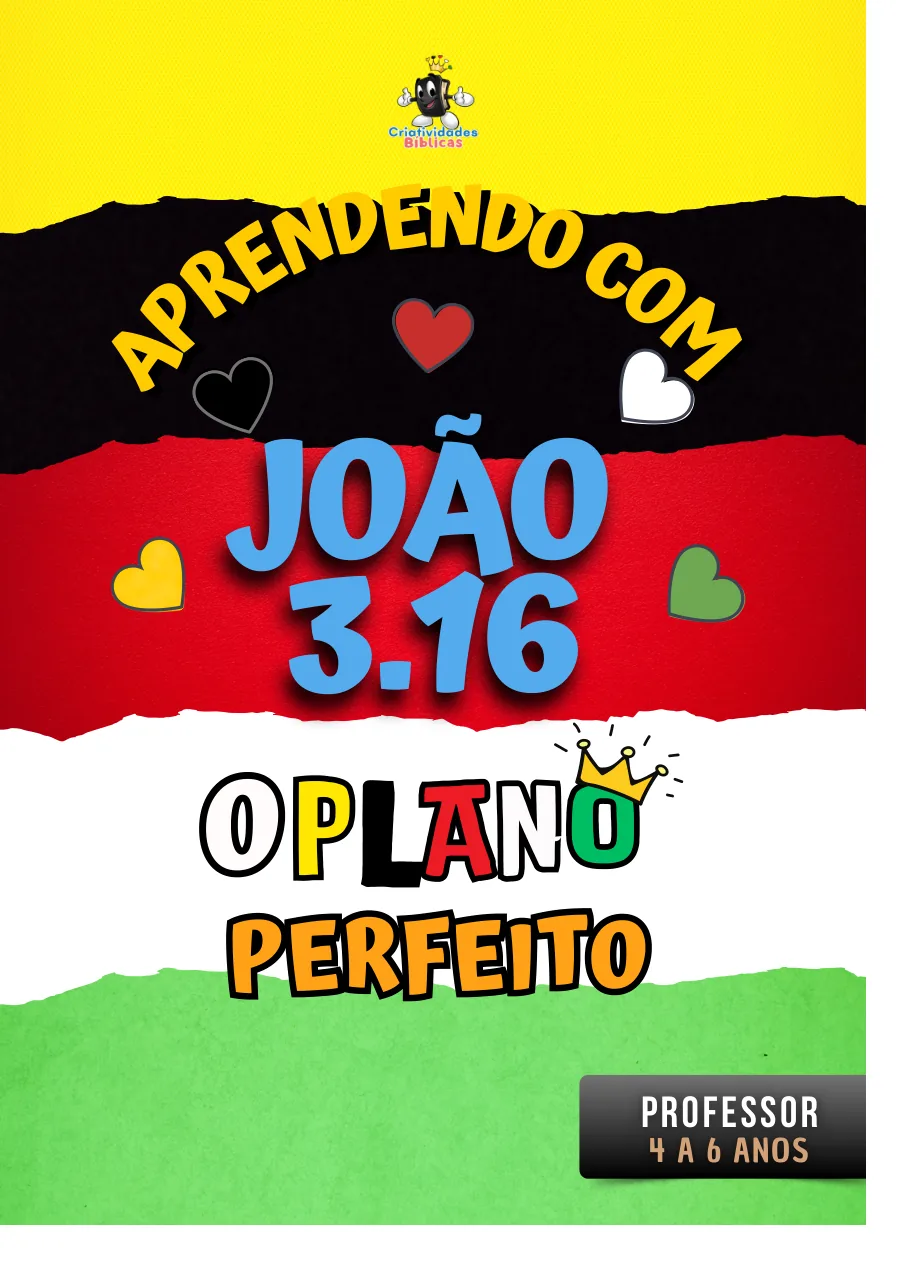
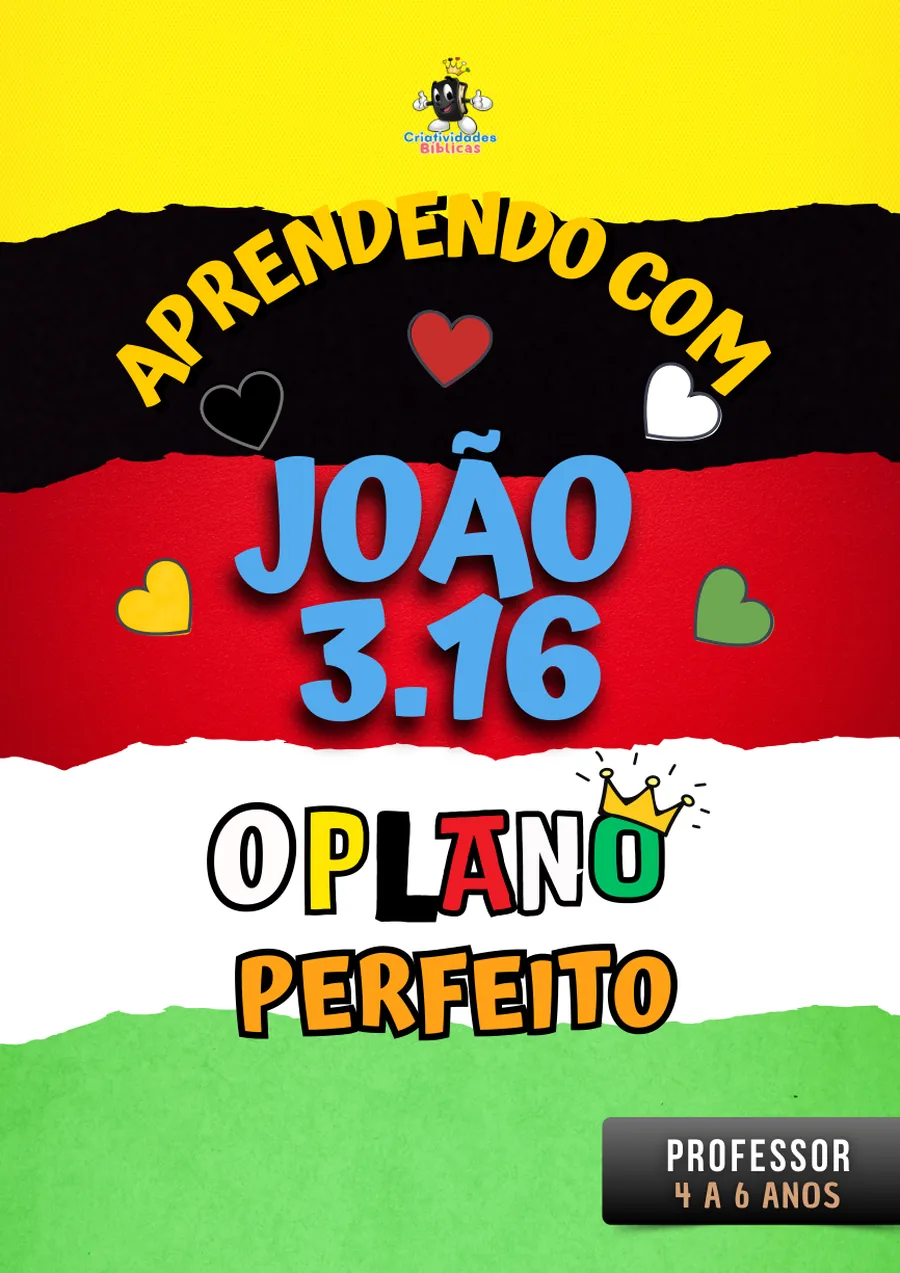
Black Biblinho: storytelling (preco por ultimo), capas recentes no topo, Planner 2027 em destaque
- A conta do valor sai do topo e vai pro fim, dentro de "Por que isso so existe
  na Black Friday", logo antes da oferta; o botao do topo rola pra "O que entra".
- Hero com as capas mais recentes: Daniel, As Cores da Salvacao e Elias.
- Planner Ministerio Infantil 2027 (Chamadas a Cuidar) ganha cartao proprio como
  bonus em producao, com a capa real e o ano trocado pra 2027.
- Capa do Plano Perfeito 2025 aparada (o PDF tinha margem branca a direita e embaixo).
- Emocoes: mais de 1.000 familias e professoras.

diff --git a/app/black-biblinho/page.js b/app/black-biblinho/page.js
@@ -16,7 +16,7 @@
 import Image from "next/image";
 import Link from "next/link";
 import { Lilita_One } from "next/font/google";
-import { ArrowDown, CheckCircle, Clock, LockSimpleOpen, ShieldCheck, Sparkle } from "@phosphor-icons/react/dist/ssr";
+import { CheckCircle, Clock, LockSimpleOpen, ShieldCheck, Sparkle } from "@phosphor-icons/react/dist/ssr";
 import Nav from "@/components/Nav";
 import Footer from "@/components/Footer";
 import FaqItem from "@/components/FaqItem";
@@ -81,14 +81,15 @@ function Selo({ children, className = "" }) {
 }
 
 // Chamada principal, muda com a fase. Na venda leva pra Kiwify; fechada, pro Plano Anual de sempre.
-// No hero (rolar=true) o botão não leva pro checkout: desce pro bloco seguinte, sem preço
-// (decisão da Thali em 20/11: a pessoa precisa ver tudo que recebe antes de chegar no pagamento).
+// No hero (rolar=true) o botão não leva pro checkout: desce pra seção do que entra, sem preço
+// (decisão da Thali em 20/11: a pessoa precisa ver tudo que recebe antes de chegar no pagamento;
+// 21/11: a conta do valor foi pro fim da página, depois de todo o material).
 function Chamada({ fase, className = "", rolar = false }) {
   if (fase === "venda" && rolar) {
     return (
       <div className={className}>
-        <Botao href="#valor" externo={false}>Quero o Acesso Total</Botao>
-        <p className="mt-3 text-[14px] font-semibold text-current/70">Veja tudo que entra e quanto custa. Leva 1 minuto.</p>
+        <Botao href="#entra" externo={false}>Quero o Acesso Total</Botao>
+        <p className="mt-3 text-[14px] font-semibold text-current/70">Veja tudo que entra. Leva 1 minuto.</p>
       </div>
     );
   }
@@ -126,7 +127,8 @@ function FaixaTopo({ fase }) {
 export default async function BlackBiblinhoPage({ searchParams }) {
   const sp = await searchParams;
   const fase = faseDaUrl(sp);
-  const capasHero = [RODA_2026[2], RODA_2026[0], RODA_2026[9]]; // Zaqueu, Semeador, Daniel (2026)
+  // 21/11 (Thali): no topo, as capas mais recentes e mais coloridas: Daniel (out), As Cores da Salvação (nov, no centro) e Elias (set).
+  const capasHero = [RODA_2026[9], RODA_2026[10], RODA_2026[8]];
 
   return (
     <div className={`pa bb ${lilita.variable}`}>
@@ -161,9 +163,6 @@ export default async function BlackBiblinhoPage({ searchParams }) {
                 {fase === "venda" ? <ContadorBlocos escuro className="mt-3" /> : null}
               </div>
               <Chamada fase={fase} rolar className="mt-8 text-white" />
-              <a href="#entra" className="mt-6 inline-flex items-center gap-2 text-[15px] font-bold text-white/80 underline-offset-4 hover:text-pa-sol hover:underline">
-                Ver tudo que entra <ArrowDown size={18} weight="bold" />
-              </a>
             </div>
             <div className="relative mx-auto aspect-[5/4] w-full max-w-lg xl:max-w-none">
               <Image src={capasHero[0].src} alt="" width={900} height={1273} className="pa-flutua absolute left-[2%] top-[10%] hidden h-[72%] w-auto rounded-[12px] border-4 border-white shadow-[0_28px_44px_-18px_rgba(0,0,0,0.6)] sm:block" style={{ "--r": "-8deg", "--dur": "7.5s", "--delay": "0.4s" }} />
@@ -173,47 +172,9 @@ export default async function BlackBiblinhoPage({ searchParams }) {
           </div>
         </section>
 
-        {/* 2. A conta do valor: o que custa separado e por quanto sai na Black Friday */}
-        <section id="valor" className="scroll-mt-20 bg-white">
-          <div className="mx-auto max-w-3xl px-5 py-16 md:px-8 md:py-24">
-            <H2>Faça a conta antes de decidir.</H2>
-            <Texto className="mt-4">Tudo que entra no Black Biblinho já existe e é vendido separado, pelos preços de hoje. Somando, dá isto:</Texto>
-            <ul className="mt-8 divide-y divide-pa-tinta/10 rounded-[1.5rem] bg-pa-ceu-claro px-6 py-2 md:px-8">
-              {VALOR.map((v) => (
-                <li key={v.item} className="flex items-baseline justify-between gap-4 py-4">
-                  <span>
-                    <span className="block text-[16px] font-bold text-pa-tinta md:text-[17px]">{v.item}</span>
-                    <span className="block text-[13px] font-semibold text-pa-tinta/60">{v.detalhe}</span>
-                  </span>
-                  <span className="shrink-0 font-display text-[1.25rem] text-pa-tinta/80 tabular-nums">{moeda(v.preco)}</span>
-                </li>
-              ))}
-              <li className="flex items-baseline justify-between gap-4 py-4">
-                <span className="text-[16px] font-extrabold text-pa-tinta md:text-[17px]">Separado, tudo isso custa</span>
-                <span className="shrink-0 font-display text-[1.6rem] text-pa-tinta tabular-nums line-through decoration-pa-laranja decoration-4">{moeda(Math.round(VALOR_TOTAL))}</span>
-              </li>
-            </ul>
-            <div className="mt-8 rounded-[1.5rem] bg-bb-noite px-6 py-7 text-white md:px-8">
-              <p className="text-[12px] font-extrabold uppercase tracking-[0.12em] text-white/60">Na Black Friday, até {OFERTA.fimCurto}</p>
-              <p className="mt-2 flex flex-wrap items-end gap-x-3">
-                <span className="font-display text-[3rem] leading-none text-pa-sol md:text-[3.6rem]">{OFERTA.por}</span>
-                <span className="pb-1 text-[16px] font-bold text-white/85">tudo junto, liberado de uma vez</span>
-              </p>
-              <p className="mt-3 text-[16px] font-medium leading-relaxed text-white/85 md:text-[17px]">
-                Menos da metade do que custa o Plano Anual sozinho, e você leva {DOMINGOS} domingos de aula pronta, {SERIES} séries, as três faixas, o Emoções e o plano de leitura. Ou {OFERTA.parcela}.
-              </p>
-              <p className="mt-3 text-[15px] font-medium leading-relaxed text-white/75">
-                E de bônus: o {BONUS.nome} {BONUS.texto}.
-              </p>
-            </div>
-            <a href="#entra" className="mt-6 inline-flex items-center gap-2 text-[15px] font-bold text-pa-campo-escuro underline-offset-4 hover:underline">
-              Ver tudo que entra <ArrowDown size={18} weight="bold" />
-            </a>
-          </div>
-        </section>
-
-        {/* 3. O que entra (sem falar em "bloco": pedido da Thali em 21/11) */}
-        <section id="entra" className="bg-pa-ceu-claro">
+        {/* 2. O que entra (sem falar em "bloco": pedido da Thali em 21/11). A conta do valor fica no fim,
+            depois de a pessoa ver todo o material (pedido dela em 21/11: primeiro o que recebe, por último o preço). */}
+        <section id="entra" className="scroll-mt-20 bg-pa-ceu-claro">
           <div className="mx-auto max-w-6xl px-5 py-16 md:px-8 md:py-24">
             <Selo>O que entra</Selo>
             <H2 className="mt-4">Todo o material, liberado na hora.</H2>
@@ -262,24 +223,34 @@ export default async function BlackBiblinhoPage({ searchParams }) {
               </ul>
             </article>
 
-            {/* Emoções e plano de leitura (com o Planner 2027 de bônus) */}
-            <div className="mt-6 grid gap-6 lg:grid-cols-2">
-              <article className="flex flex-col overflow-hidden rounded-[2rem] bg-white shadow-[0_10px_30px_-18px_rgba(11,60,100,0.3)] sm:flex-row">
-                <div className="flex items-center justify-center bg-[#f3eefb] p-6 sm:w-[42%]">
-                  <Image src="/emocoes/livro.png" alt="Capa do estudo Jesus Cuida das Minhas Emoções" width={693} height={1108} className="h-56 w-auto drop-shadow-[0_18px_24px_rgba(74,42,122,0.35)] sm:h-64" />
+            {/* Emoções, plano de leitura e o Planner 2027 em destaque (bônus em produção; pedido da Thali em 21/11) */}
+            <div className="mt-6 grid gap-6 lg:grid-cols-3">
+              <article className="flex flex-col overflow-hidden rounded-[2rem] bg-white shadow-[0_10px_30px_-18px_rgba(11,60,100,0.3)]">
+                <div className="flex items-center justify-center bg-[#f3eefb] p-6">
+                  <Image src="/emocoes/livro.png" alt="Capa do estudo Jesus Cuida das Minhas Emoções" width={693} height={1108} className="h-56 w-auto drop-shadow-[0_18px_24px_rgba(74,42,122,0.35)] md:h-64" />
                 </div>
-                <div className="p-6 sm:flex sm:w-[58%] sm:flex-col sm:justify-center md:p-8">
+                <div className="p-6 md:p-7">
                   <h3 className="font-display text-[1.45rem] leading-tight text-pa-tinta">{BLOCOS[2].titulo}</h3>
                   <p className="mt-2 text-[15px] font-medium leading-relaxed text-pa-tinta/80">{BLOCOS[2].resumo} {BLOCOS[2].detalhe}</p>
                 </div>
               </article>
-              <article className="flex flex-col overflow-hidden rounded-[2rem] bg-white shadow-[0_10px_30px_-18px_rgba(11,60,100,0.3)] sm:flex-row">
-                <div className="flex items-center justify-center bg-[#fff6e3] p-6 sm:w-[42%]">
-                  <Image src="/black-biblinho/plano-de-leitura.webp" alt="Página real do plano de leitura anual" width={1200} height={848} className="w-full max-w-[240px] rounded-[0.75rem] shadow-[0_18px_24px_-14px_rgba(138,90,60,0.45)] ring-1 ring-pa-tinta/10" />
+              <article className="flex flex-col overflow-hidden rounded-[2rem] bg-white shadow-[0_10px_30px_-18px_rgba(11,60,100,0.3)]">
+                <div className="flex h-[17.5rem] items-center justify-center bg-[#eaf6ff] p-6 md:h-[19.5rem]">
+                  <Image src="/black-biblinho/plano-de-leitura.webp" alt="Página real do plano de leitura anual" width={1200} height={848} className="w-full max-w-[260px] rounded-[0.75rem] shadow-[0_18px_24px_-14px_rgba(11,60,100,0.35)] ring-1 ring-pa-tinta/10" />
                 </div>
-                <div className="p-6 sm:flex sm:w-[58%] sm:flex-col sm:justify-center md:p-8">
+                <div className="p-6 md:p-7">
                   <h3 className="font-display text-[1.45rem] leading-tight text-pa-tinta">{BLOCOS[3].titulo}</h3>
                   <p className="mt-2 text-[15px] font-medium leading-relaxed text-pa-tinta/80">{BLOCOS[3].resumo} {BLOCOS[3].detalhe}</p>
+                </div>
+              </article>
+              <article className="relative flex flex-col overflow-hidden rounded-[2rem] bg-white shadow-[0_10px_30px_-18px_rgba(11,60,100,0.3)] ring-2 ring-pa-sol">
+                <span className="absolute left-5 top-5 z-10 rounded-full bg-pa-sol px-3 py-1 font-display text-sm uppercase tracking-wide text-pa-tinta">Bônus</span>
+                <div className="flex h-[17.5rem] items-center justify-center bg-[#fff6e3] p-6 md:h-[19.5rem]">
+                  <Image src="/black-biblinho/planner-2027.webp" alt="Capa do Planner Ministério Infantil 2027, Chamadas a Cuidar" width={900} height={1273} className="h-56 w-auto rounded-[8px] border-2 border-white shadow-[0_18px_24px_-14px_rgba(138,90,60,0.45)] md:h-64" />
+                </div>
+                <div className="p-6 md:p-7">
+                  <h3 className="font-display text-[1.45rem] leading-tight text-pa-tinta">{BLOCOS[4].titulo}</h3>
+                  <p className="mt-2 text-[15px] font-medium leading-relaxed text-pa-tinta/80">{BLOCOS[4].resumo} {BLOCOS[4].detalhe}</p>
                 </div>
               </article>
             </div>
@@ -340,8 +311,8 @@ export default async function BlackBiblinhoPage({ searchParams }) {
           </div>
         </section>
 
-        {/* 7. Por que só agora */}
-        <section className="bg-white">
+        {/* 6. Por que só agora + a conta do valor (a conta vem aqui, depois de todo o material: pedido da Thali em 21/11) */}
+        <section id="valor" className="scroll-mt-20 bg-white">
           <div className="mx-auto max-w-3xl px-5 py-16 md:px-8 md:py-24">
             <H2>Por que isso só existe na Black Friday.</H2>
             <div className="mt-6 space-y-5 text-[17px] font-medium leading-relaxed text-pa-tinta/85 md:text-xl">
@@ -349,10 +320,41 @@ export default async function BlackBiblinhoPage({ searchParams }) {
                 No resto do ano, o Plano Anual é uma assinatura: {OFERTA.ancora.preco} por um ano, com uma história liberada por mês, na ordem. É assim que a igreja inteira acompanha a mesma história no mesmo mês.
               </p>
               <p>
-                Na Black Friday a gente abre tudo de uma vez: o ano de 2026, a biblioteca de 2025, o Emoções e o plano de leitura, por {OFERTA.por}, com o Planner 2027 de bônus quando ficar pronto. Em 2027 o Plano Anual é novo, com histórias que não estão aqui, e esta oferta não se repete.
+                Na Black Friday a gente abre tudo de uma vez: o ano de 2026, a biblioteca de 2025, o Emoções e o plano de leitura, com o Planner 2027 de bônus assim que ficar pronto. Em 2027 o Plano Anual é novo, com histórias que não estão aqui, e esta oferta não se repete.
               </p>
               <p>
                 Se você prefere receber mês a mês, o <Link href={PLANO_ANUAL_URL} className="font-bold text-pa-campo-escuro underline underline-offset-4">Plano Anual de sempre</Link> continua lá. Se você quer o material todo na mão agora, é aqui.
+              </p>
+            </div>
+
+            <h3 className="mt-14 font-display text-[1.6rem] leading-tight text-pa-tinta md:text-[2rem]">Faça a conta.</h3>
+            <Texto className="mt-3">Tudo que você acabou de ver já existe e é vendido separado, pelos preços de hoje. Somando, dá isto:</Texto>
+            <ul className="mt-8 divide-y divide-pa-tinta/10 rounded-[1.5rem] bg-pa-ceu-claro px-6 py-2 md:px-8">
+              {VALOR.map((v) => (
+                <li key={v.item} className="flex items-baseline justify-between gap-4 py-4">
+                  <span>
+                    <span className="block text-[16px] font-bold text-pa-tinta md:text-[17px]">{v.item}</span>
+                    <span className="block text-[13px] font-semibold text-pa-tinta/60">{v.detalhe}</span>
+                  </span>
+                  <span className="shrink-0 font-display text-[1.25rem] text-pa-tinta/80 tabular-nums">{moeda(v.preco)}</span>
+                </li>
+              ))}
+              <li className="flex items-baseline justify-between gap-4 py-4">
+                <span className="text-[16px] font-extrabold text-pa-tinta md:text-[17px]">Separado, tudo isso custa</span>
+                <span className="shrink-0 font-display text-[1.6rem] text-pa-tinta tabular-nums line-through decoration-pa-laranja decoration-4">{moeda(Math.round(VALOR_TOTAL))}</span>
+              </li>
+            </ul>
+            <div className="mt-8 rounded-[1.5rem] bg-bb-noite px-6 py-7 text-white md:px-8">
+              <p className="text-[12px] font-extrabold uppercase tracking-[0.12em] text-white/60">Na Black Friday, até {OFERTA.fimCurto}</p>
+              <p className="mt-2 flex flex-wrap items-end gap-x-3">
+                <span className="font-display text-[3rem] leading-none text-pa-sol md:text-[3.6rem]">{OFERTA.por}</span>
+                <span className="pb-1 text-[16px] font-bold text-white/85">tudo junto, liberado de uma vez</span>
+              </p>
+              <p className="mt-3 text-[16px] font-medium leading-relaxed text-white/85 md:text-[17px]">
+                Menos da metade do que custa o Plano Anual sozinho, e você leva {DOMINGOS} domingos de aula pronta, {SERIES} séries, as três faixas, o Emoções e o plano de leitura. Ou {OFERTA.parcela}.
+              </p>
+              <p className="mt-3 text-[15px] font-medium leading-relaxed text-white/75">
+                E de bônus: o {BONUS.nome} {BONUS.texto}.
               </p>
             </div>
           </div>

diff --git a/components/black-biblinho/dados.js b/components/black-biblinho/dados.js
@@ -93,13 +93,22 @@ export const BLOCOS = [
     n: 3,
     titulo: "Jesus Cuida das Minhas Emoções",
     resumo: "O estudo das 9 emoções, o mais pedido da casa.",
-    detalhe: "9 cards com versículo, a história do Salmo 23 em 15 lâminas, a caixinha Pergunta ou Desafio, atividades em duas faixas e lembrancinhas. Mais de 890 famílias e professoras já usaram.",
+    detalhe: "9 cards com versículo, a história do Salmo 23 em 15 lâminas, a caixinha Pergunta ou Desafio, atividades em duas faixas e lembrancinhas. Mais de 1.000 famílias e professoras já usaram.",
   },
   {
     n: 4,
     titulo: "Plano de leitura anual",
     resumo: "Pra ler a Bíblia inteira em um ano, com a sua turma ou em casa.",
-    detalhe: "Em PDF, pra imprimir ou usar no celular. E de bônus: o Planner Ministério Infantil 2027 está sendo produzido e entra na sua área de membros assim que ficar pronto, sem pagar nada a mais.",
+    detalhe: "Em PDF, pra imprimir ou usar no celular.",
+  },
+  // Bônus em destaque (pedido da Thali em 21/11): o Planner 2027 "Chamadas a Cuidar", já em produção,
+  // entra na plataforma a qualquer momento pra quem comprar o Black Biblinho. Miolos reais da pasta do Planner.
+  {
+    n: 5,
+    bonus: true,
+    titulo: "Planner Ministério Infantil 2027",
+    resumo: "Chamadas a Cuidar. Bônus de quem comprar o Black Biblinho: já está em produção e entra na sua área de membros a qualquer momento.",
+    detalhe: "Pra organizar o ano do ministério: minha turma, lista de presença, escala, planejamento de aula e do mês, culto kids, equipe, reunião, financeiro e anotações. Em PDF, pra imprimir ou usar no tablet.",
   },
 ];
 

diff --git a/scripts/capas-professor.py b/scripts/capas-professor.py
@@ -41,6 +41,20 @@ ITENS = [
     ("black-biblinho", "capa-prof-2025-plano-perfeito", B25, "8 O PLANO PERFEITO - JO*O 3.16/2 APOSTILA E ATIVIDADES/KIDS APOSTILA PROFESSOR - O PLANO PERFEITO.pdf", 900),
 ]
 
+def aparar(img, width):
+    """Alguns PDFs antigos (ex.: O Plano Perfeito 2025) tem a arte menor que a pagina, com margem branca
+    a direita e embaixo; na pagina a capa aparecia "recortada" (Thali, 21/11). Corta a margem branca
+    (so se for pequena, ate 10 %) e volta pra largura pedida, mantendo a proporcao da arte."""
+    cinza = img.convert("L")
+    caixa = cinza.point(lambda v: 0 if v > 235 else 255).getbbox()
+    if not caixa:
+        return img
+    x0, y0, x1, y1 = caixa
+    if (img.width - (x1 - x0)) / img.width > 0.1 or (img.height - (y1 - y0)) / img.height > 0.1:
+        return img  # margem grande demais pra ser sobra de pagina; deixa como esta
+    rec = img.crop((x0, y0, x1, y1))
+    return rec.resize((width, round(rec.height * width / rec.width)), Image.LANCZOS)
+
 def salvar(pasta, nome, base, rel, width):
     out = os.path.join(RAIZ, pasta)
     os.makedirs(out, exist_ok=True)
@@ -50,6 +64,7 @@ def salvar(pasta, nome, base, rel, width):
     zoom = width / pg.rect.width
     pix = pg.get_pixmap(matrix=pymupdf.Matrix(zoom, zoom), alpha=False)
     img = Image.frombytes("RGB", (pix.width, pix.height), pix.samples)
+    img = aparar(img, width)
     img.save(os.path.join(out, nome + ".webp"), "WEBP", quality=82, method=6)
     side = {
         "prompt": f"Origem: pagina 1 (capa da apostila do professor) do PDF real '{os.path.basename(origem)}' (Criatividades Biblicas, 2 PLANO ANUAL), renderizada com PyMuPDF via scripts/capas-professor.py. Nao e imagem gerada por IA.",
